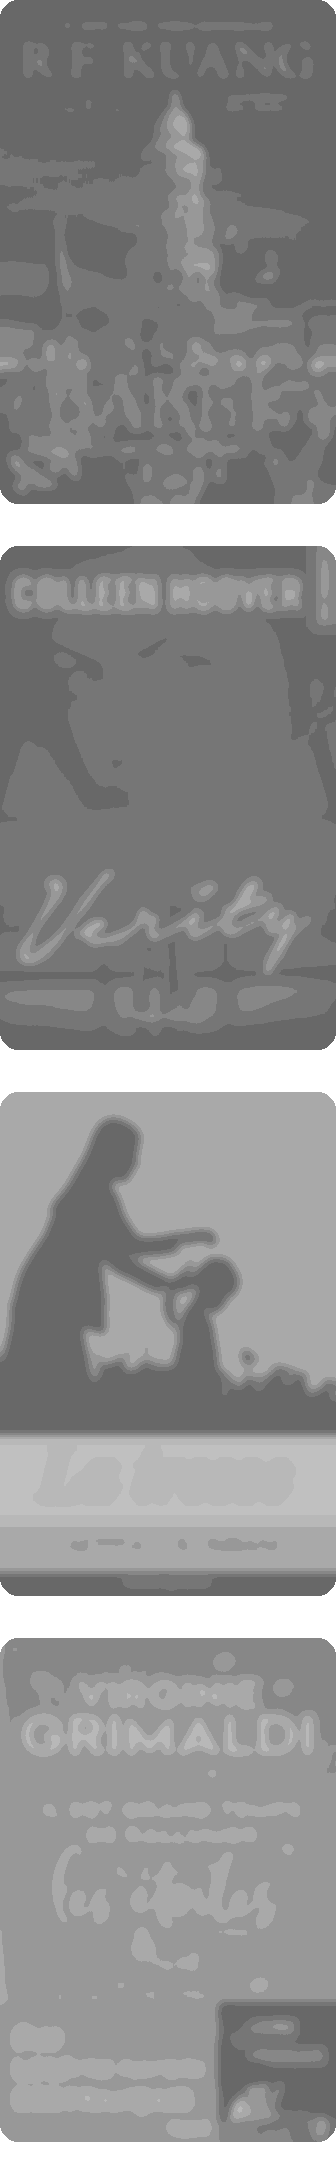
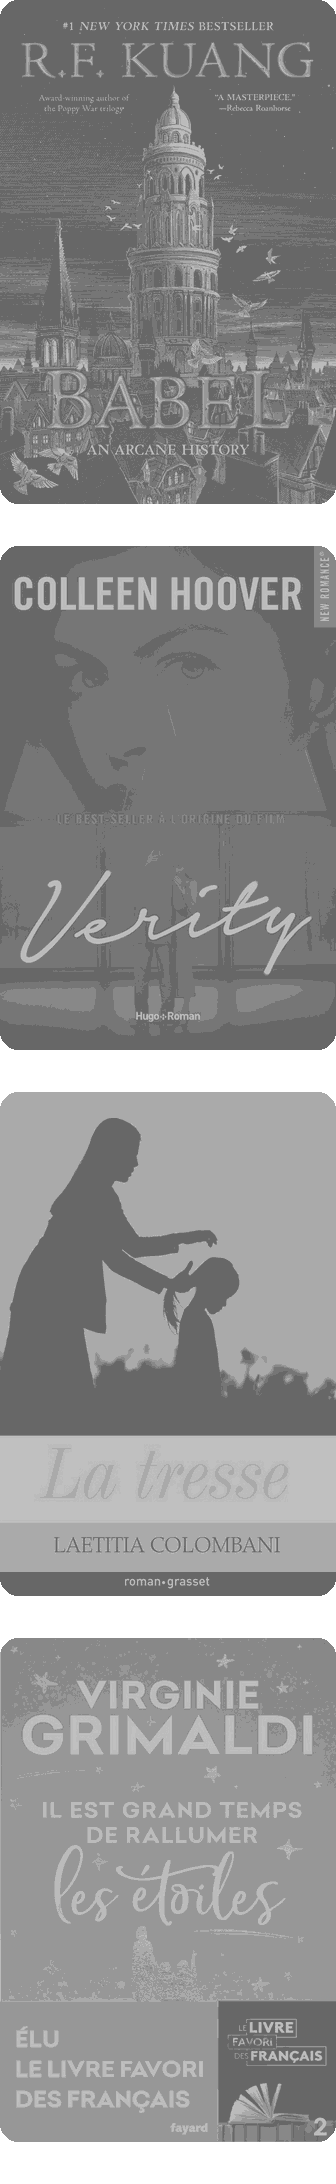
fix(onboarding): couvertures de l'entrée nettes, seulement en opacité réduite (#189)

diff --git a/scripts/generate-login-covers.py b/scripts/generate-login-covers.py
@@ -17,7 +17,7 @@ import urllib.request
 from pathlib import Path
 
 import numpy as np
-from PIL import Image, ImageDraw, ImageFilter
+from PIL import Image, ImageDraw
 
 ROOT = Path(__file__).resolve().parent.parent
 OUT = ROOT / "assets/images/login"
@@ -41,7 +41,7 @@ RADIUS = 18
 DARK = np.array([0x6E, 0x1F, 0x2C])
 LIGHT = np.array([0xC2, 0x4A, 0x5D])
 # Variante « gris » (l'écran de connexion sur l'aquarelle, 2026-10-28) : sans
-# aucune saturation, floutée, posée en transparence : elle prend la couleur du fond
+# aucune saturation, posée en transparence : elle prend la couleur du fond
 GREY_DARK = np.array([0x60, 0x60, 0x60])
 GREY_LIGHT = np.array([0xC0, 0xC0, 0xC0])
 # Variante « crème » : les livres en papier clair, posés sur l'aquarelle
@@ -79,9 +79,6 @@ def tone(url, mode):
         lum = np.asarray(img.convert("L"), dtype=np.float32)[..., None] / 255
         dark, light = {"rouge": (DARK, LIGHT), "gris": (GREY_DARK, GREY_LIGHT)}.get(mode, (CREAM_DARK, CREAM_LIGHT))
         out = Image.fromarray((dark + (light - dark) * lum).astype(np.uint8)).convert("RGBA")
-        if mode == "gris":
-            # Diffus : les livres se devinent, aucun titre ne se lit
-            out = out.filter(ImageFilter.GaussianBlur(4))
     mask = Image.new("L", out.size, 0)
     ImageDraw.Draw(mask).rounded_rectangle((0, 0, COVER_W - 1, COVER_H - 1), RADIUS, fill=255)
     out.putalpha(mask)

diff --git a/DESIGN.md b/DESIGN.md
@@ -811,7 +811,7 @@ Prototype validé le 2026-10-28 (artefact « Onboarding chapi »). Deux temps :
 
 - **Entrée** : l'écran de connexion, sans volets d'ouverture (jugés trop
   chargés le 2026-10-28 ; variantes comparées en artefact, la « Titre à
-  gauche » retenue). Il part identique au splash (rouge), qui se fond dans une aquarelle surtout rouge et chocolat, avec une touche de beurre et de beige loin du texte (`generate-profile-wash.py login`, le papier du profil en plus sombre). Dessus, le mur de couvertures en gris flouté à 10 % (`generate-login-covers.py gris`), diffus. Puis « chapi » et la tagline
+  gauche » retenue). Il part identique au splash (rouge), qui se fond dans une aquarelle surtout rouge et chocolat, avec une touche de beurre et de beige loin du texte (`generate-profile-wash.py login`, le papier du profil en plus sombre). Dessus, le mur de couvertures en gris (net, sans flou) à 10 % (`generate-login-covers.py gris`), diffus. Puis « chapi » et la tagline
   s'effacent, les yeux se posent en petit et en crème (`LivingEye light`)
   au-dessus de la question, un grand titre à gauche juste au-dessus des
   boutons : « On lit » / « *ensemble* ? ». « J'ai un lien ou un code » sous les
